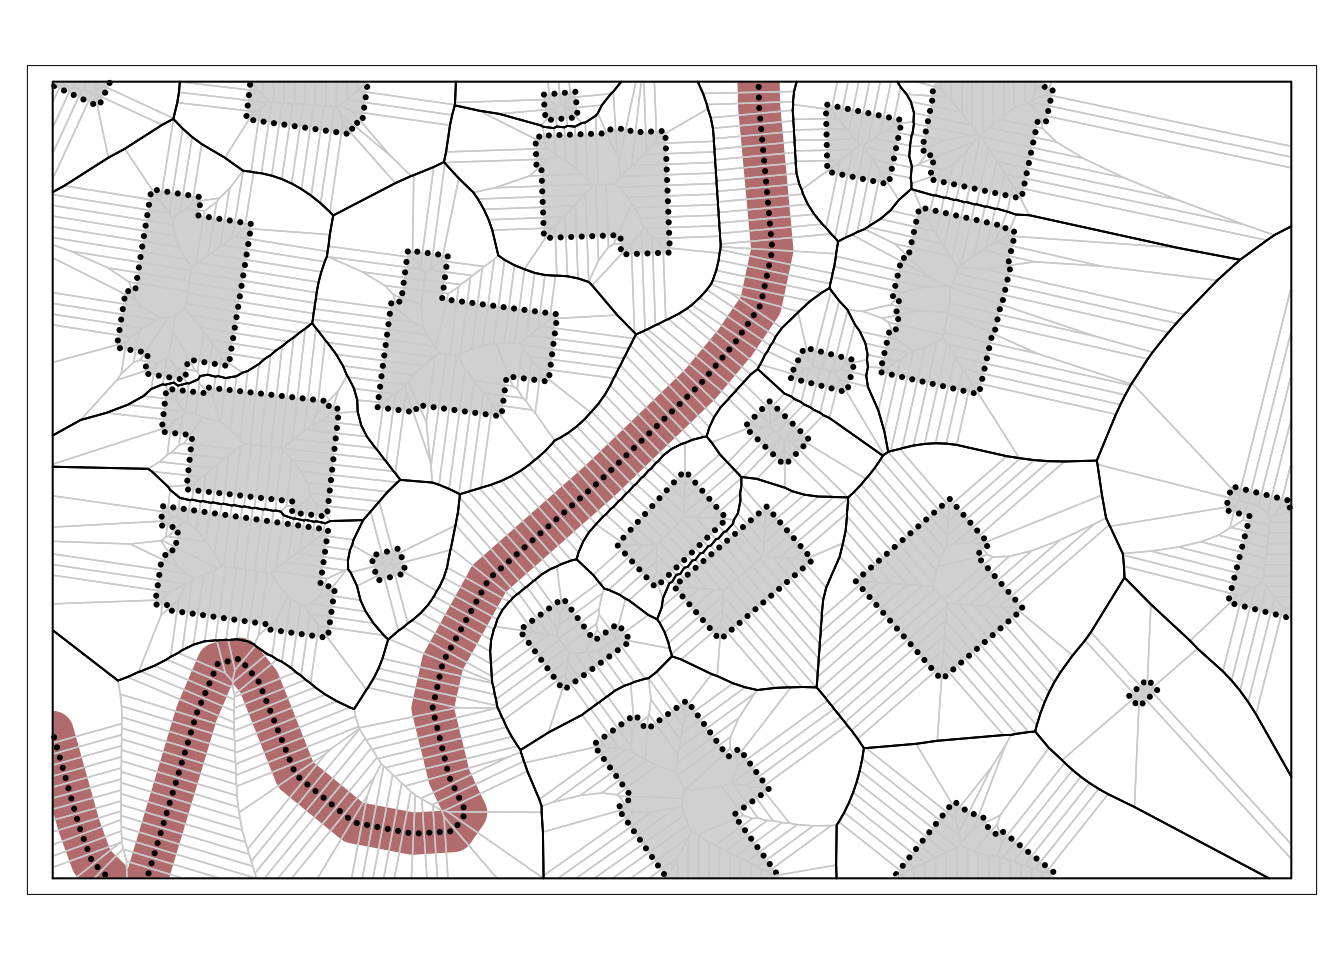
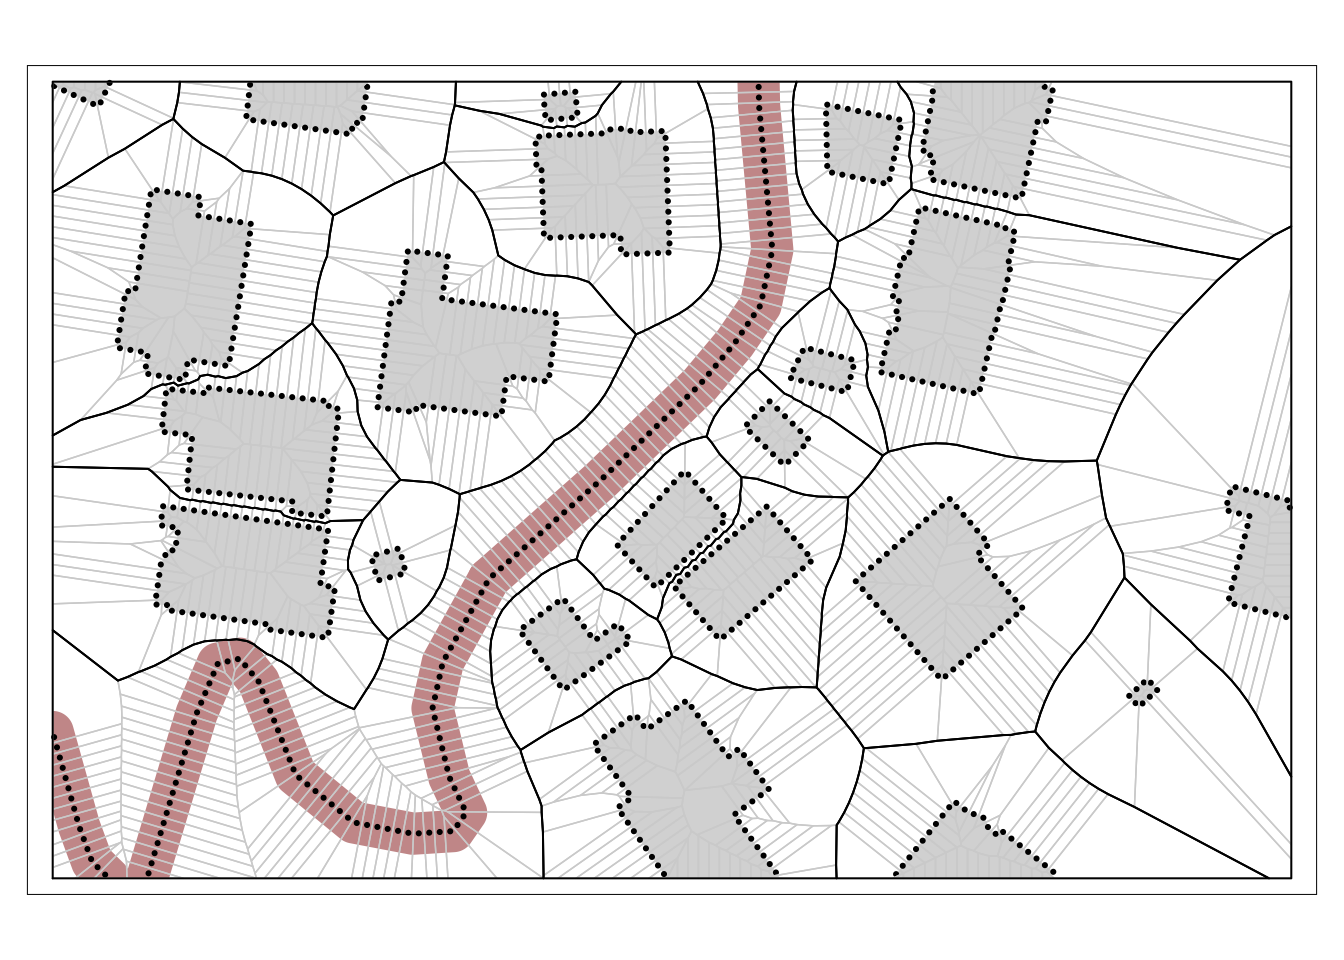
updated non-point voronoi png

Changed region(s): [[0.0312, 0.0625, 0.5938, 0.9375]]

diff --git a/docs/chapters/chap2/fig2-08-non-point-voronoi.html b/docs/chapters/chap2/fig2-08-non-point-voronoi.html
@@ -334,14 +334,14 @@ pre > code.sourceCode > span > a:first-child::before { text-decoration: underlin
 <section id="make-a-map" class="level2">
 <h2 class="anchored" data-anchor-id="make-a-map">Make a map</h2>
 <p>Finally, we can make a map, similar to the one in Figure 2.8 in the book.</p>
-<div class="cell" data-hash="fig2-08-non-point-voronoi_cache/html/unnamed-chunk-10_7f2bed82e1c9a35fcba6352992ec1a0c">
+<div class="cell" data-hash="fig2-08-non-point-voronoi_cache/html/unnamed-chunk-10_ff6d7b7b91c7976989c788e68c21fe39">
 <details open="">
 <summary>Code</summary>
 <div class="sourceCode cell-code" id="cb10"><pre class="sourceCode r code-with-copy"><code class="sourceCode r"><span id="cb10-1"><a href="#cb10-1" aria-hidden="true" tabindex="-1"></a><span class="fu">tm_shape</span>(bldgs, <span class="at">bbox =</span> extent) <span class="sc">+</span></span>
 <span id="cb10-2"><a href="#cb10-2" aria-hidden="true" tabindex="-1"></a>  <span class="fu">tm_fill</span>() <span class="sc">+</span> </span>
 <span id="cb10-3"><a href="#cb10-3" aria-hidden="true" tabindex="-1"></a>  <span class="co"># make the road into a polygon for clipping to extent</span></span>
 <span id="cb10-4"><a href="#cb10-4" aria-hidden="true" tabindex="-1"></a>  <span class="fu">tm_shape</span>(roads <span class="sc">%&gt;%</span> <span class="fu">st_buffer</span>(<span class="dv">2</span>) <span class="sc">%&gt;%</span> <span class="fu">st_intersection</span>(extent)) <span class="sc">+</span> </span>
-<span id="cb10-5"><a href="#cb10-5" aria-hidden="true" tabindex="-1"></a>  <span class="fu">tm_fill</span>(<span class="at">col =</span> <span class="st">"#c08080"</span>) <span class="sc">+</span></span>
+<span id="cb10-5"><a href="#cb10-5" aria-hidden="true" tabindex="-1"></a>  <span class="fu">tm_fill</span>(<span class="at">col =</span> <span class="st">"#cc9999"</span>) <span class="sc">+</span></span>
 <span id="cb10-6"><a href="#cb10-6" aria-hidden="true" tabindex="-1"></a>  <span class="co"># filter points so only those inside the extent are in the map</span></span>
 <span id="cb10-7"><a href="#cb10-7" aria-hidden="true" tabindex="-1"></a>  <span class="fu">tm_shape</span>(all_pts <span class="sc">%&gt;%</span> <span class="fu">st_filter</span>(extent <span class="sc">%&gt;%</span> <span class="fu">st_buffer</span>(<span class="sc">-</span>.<span class="dv">1</span>))) <span class="sc">+</span> </span>
 <span id="cb10-8"><a href="#cb10-8" aria-hidden="true" tabindex="-1"></a>  <span class="fu">tm_dots</span>(<span class="at">col =</span> <span class="st">"black"</span>) <span class="sc">+</span></span>

diff --git a/docs/chapters/chap2/index.html b/docs/chapters/chap2/index.html
@@ -281,7 +281,7 @@ This is most conveniently made using <code>spatstat</code>, but I’ve shown it 
 </div>
 </a>
 </div>
-<div class="g-col-1" data-index="4" data-listing-file-modified-sort="1696707628221" data-listing-reading-time-sort="4">
+<div class="g-col-1" data-index="4" data-listing-file-modified-sort="1696711939190" data-listing-reading-time-sort="4">
 <a href="../../chapters/chap2/fig2-08-non-point-voronoi.html" class="quarto-grid-link">
 <div class="quarto-grid-item card h-100 card-left">
 <p class="card-img-top">
